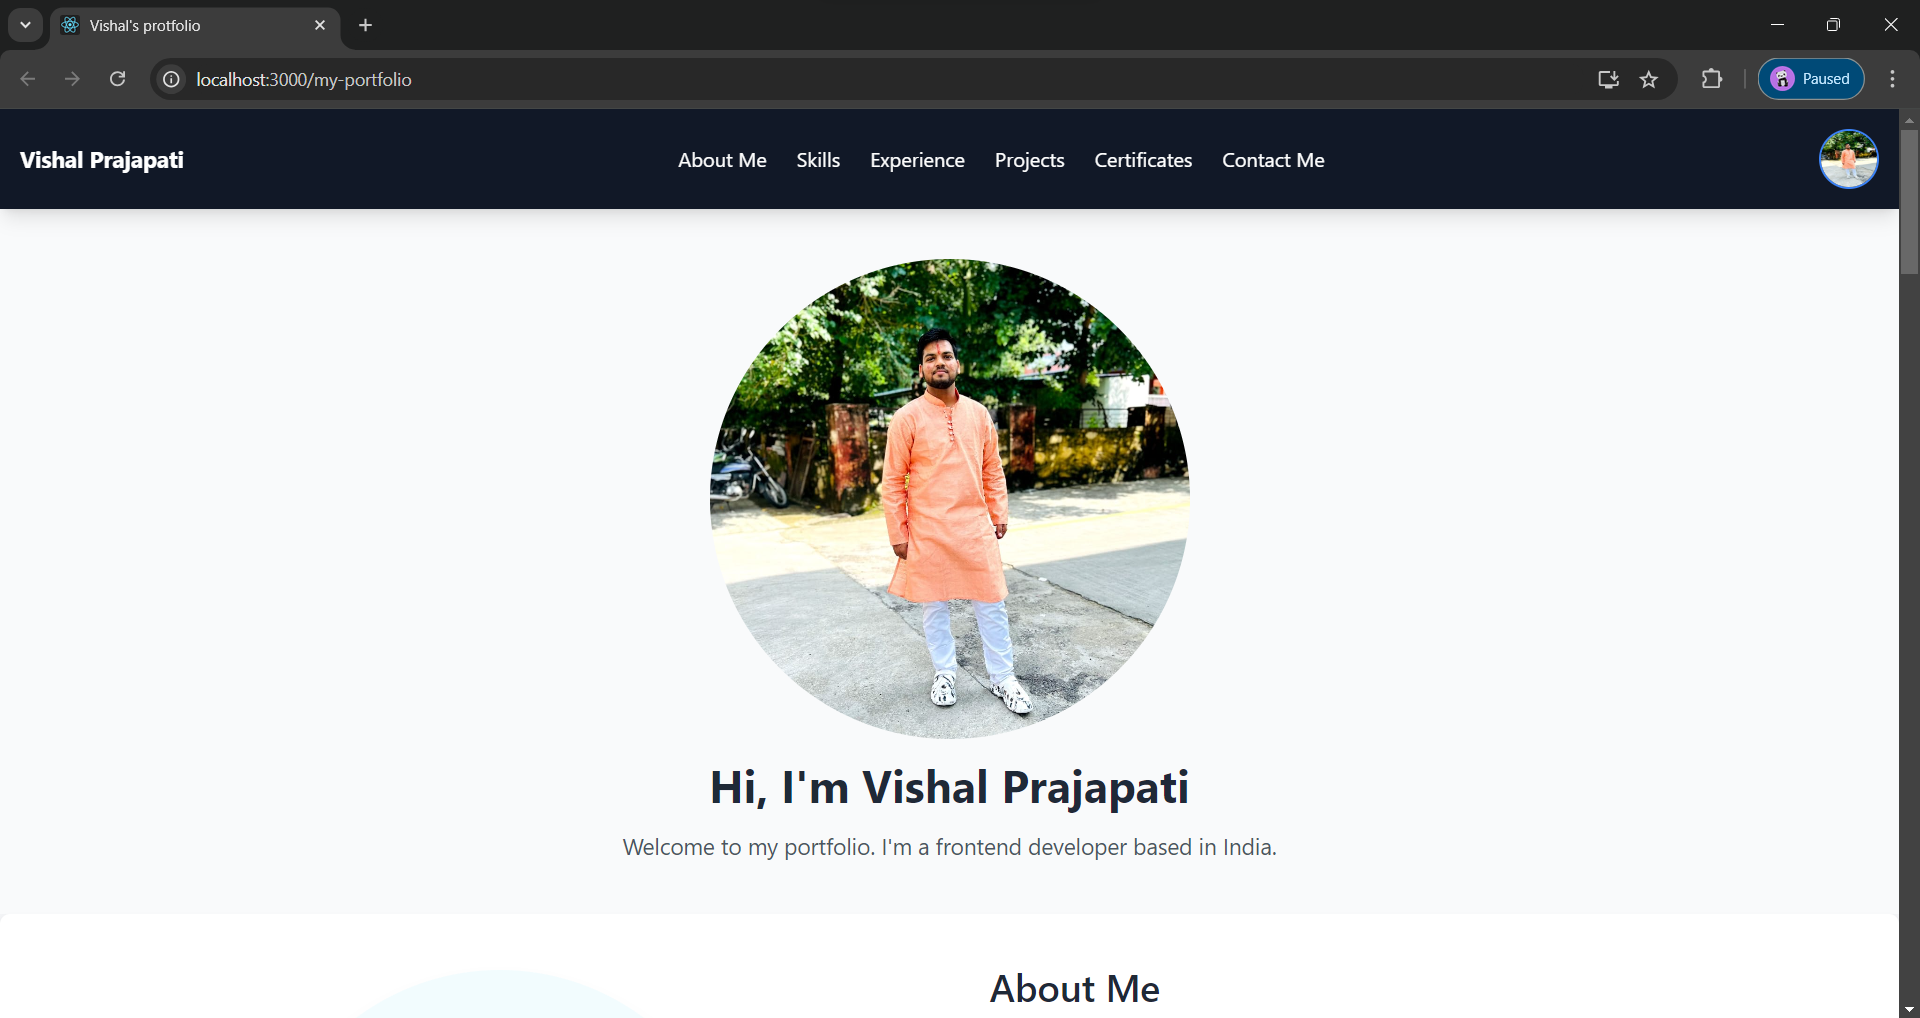
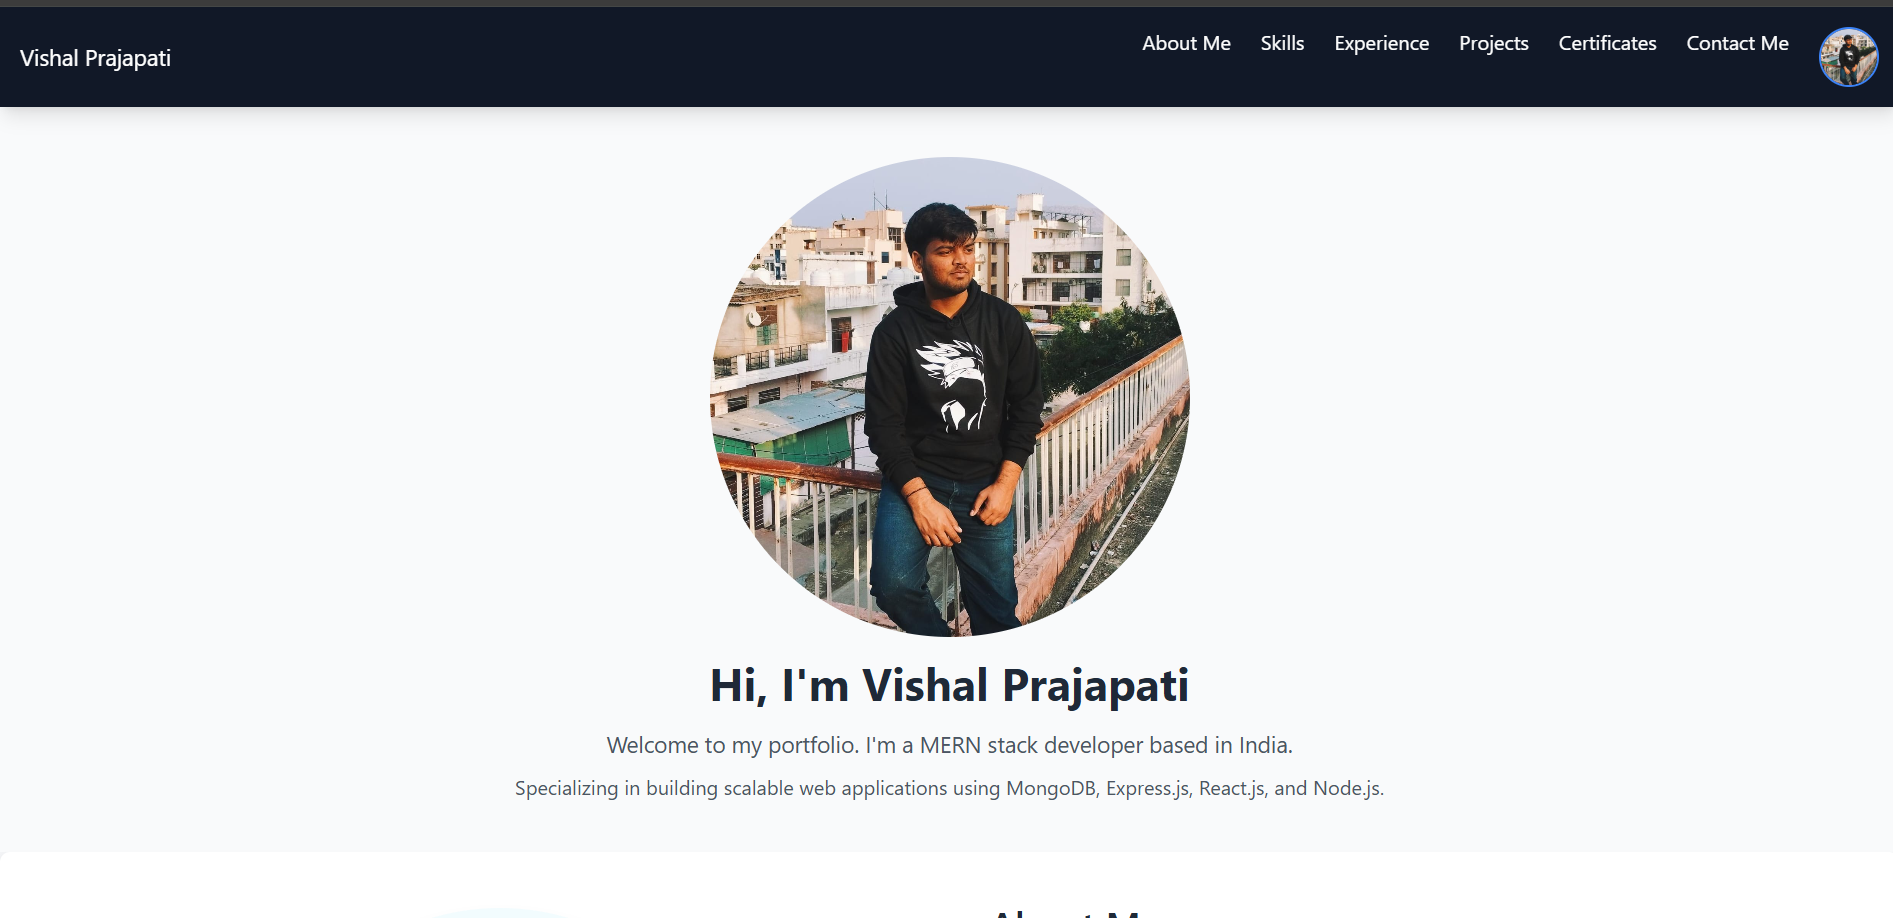
project updates

Changed region(s): [[0.0, 0.0, 1.0, 1.0], [0.4987, 0.9455, 0.6233, 1.0]]

diff --git a/src/Projects.js b/src/Projects.js
@@ -2,22 +2,25 @@
 
 import React, { useState } from 'react';
 
-import Joker from "./Projects/Joker.png";
-import Lottery from "./Projects/Lottery.png";
+import Cricketgems from "./Projects/Cricketgems.png";
+import Realestate from "./Projects/Realestate.png";
+import Parikramapaths from "./Projects/Parikramapaths.png";
 import Portfolio from "./Projects/Portfolio.png";
 import ToDOList from "./Projects/ToDOList.png";
 import Weather from "./Projects/Weather.png";
 
 const projects = [
+  
   {
-    title: "Weather App",
-    description: "A React Weather App fetches real-time weather data via APIs, displaying conditions and forecasts with a responsive design.",
-    imageUrl: Weather,
+    title: "Real-estate",
+    description: "Designed and developed a modern real estate web application focused on seamless property browsing, intuitive navigation, and responsive design.",
+    imageUrl: Realestate,
   },
+  
   {
-    title: "ToDO List",
-    description: "A ToDoList in React manages tasks using useState for adding, removing, and marking items. Tasks are rendered dynamically with forms or buttons for interaction.",
-    imageUrl: ToDOList,
+    title: "Parikrama-paths",
+    description: "Parikrama Paths simplifies your spiritual journeys with detailed insights and guidance. Discover divine trails and traditions effortlessly with us!",
+    imageUrl: Parikramapaths,
   },
   {
     title: "My-Portfolio",
@@ -25,19 +28,19 @@ const projects = [
     imageUrl: Portfolio,
   },
   {
-    title: "Lottery-Game",
-    description: "A lottery game in React using useState for random number generation and user input to check for matches. Display results dynamically based on the draw.",
-    imageUrl: Lottery,
+    title: "Cricket-gems",
+    description: "Cricket Gems brings the excitement of cricket to life with key insights and highlights. Explore the essence of the game like never before!",
+    imageUrl: Cricketgems,
   },
   {
-    title: "Joker-App",
-    description: "Joker-App in React uses an API to fetch random jokes and display them on the screen. The app updates with a new joke on user interaction, keeping the UI simple and engaging.",
-    imageUrl: Joker,
+    title: "Weather App",
+    description: "A React Weather App fetches real-time weather data via APIs, displaying conditions and forecasts with a responsive design.",
+    imageUrl: Weather,
   },
   {
-    title: "Project Title 6",
-    description: "Brief description of your project. You can also add a link to the project.",
-    imageUrl: "https://via.placeholder.com/400x300",
+    title: "ToDO List",
+    description: "A ToDoList in React manages tasks using useState for adding, removing, and marking items.",
+    imageUrl: ToDOList,
   },
   // Add more projects as needed
 ];
@@ -56,7 +59,7 @@ const Projects = () => {
   return (
     <section id="projects" className="p-10 bg-white shadow-md rounded-lg mb-10">
       <h2 className="text-3xl font-semibold text-center mb-8 text-gray-800">Projects</h2>
-      <div className="grid grid-cols-1 sm:grid-cols-2 md:grid-cols-3 lg:grid-cols-4 gap-8">
+      <div className="grid grid-cols-1 sm:grid-cols-2 md:grid-cols-3 lg:grid-cols-4 gap-8 ">
         {projects.map((project, index) => (
           <div
             key={index}

diff --git a/src/Certificates.js b/src/Certificates.js
@@ -8,6 +8,8 @@ import DsaCertificate from "./Certificate/DsaCertificate.jpeg";
 import HtmlCertificate from "./Certificate/HtmlCertificate.png";
 import MongoDbCertificate from "./Certificate/MongoDbCertificate.png";
 import PythonCertificate from "./Certificate/PythonCertificate.png";
+import LinuxCertificate from "./Certificate/LinuxCertificate.png";
+
 
 const certificates = [
   {
@@ -45,6 +47,11 @@ const certificates = [
     description: "Successfully completed an internship program where they acquired practical skills in Python programming, including developing and debugging Python applications.",
     imageUrl: PythonCertificate,
   },
+  {
+    title: "Linux",
+    description: "Successfully completed the Linux certification. This certification highlights expertise in Linux standards and best practices.",
+    imageUrl: LinuxCertificate,
+  },
   // Add more certificates as needed
 ];
 
@@ -62,7 +69,7 @@ const Certificates = () => {
   return (
     <section id="certificates" className="p-10 bg-white shadow-md rounded-lg mb-10">
       <h2 className="text-3xl font-semibold text-center mb-8 text-gray-800">Certificates</h2>
-      <div className="grid grid-cols-1 sm:grid-cols-2 md:grid-cols-3 lg:grid-cols-4 gap-8">
+      <div className="grid grid-cols-1 sm:grid-cols-2 md:grid-cols-3 lg:grid-cols-4 gap-8 ">
         {certificates.map((certificate, index) => (
           <div
             key={index}

diff --git a/src/Skills.js b/src/Skills.js
@@ -1,7 +1,9 @@
 import React from 'react';
 import { FaReact, FaNodeJs, FaCss3Alt, FaHtml5, FaJsSquare, FaGitAlt, FaGithub, FaFigma } from 'react-icons/fa';
-import { FaUniversalAccess } from 'react-icons/fa6';
+import { FaSquareLastfm, FaUniversalAccess } from 'react-icons/fa6';
 import { SiTailwindcss, SiMongodb, SiExpress } from 'react-icons/si';
+import { SiMysql } from 'react-icons/si';
+
 
 const Skills = () => {
   return (
@@ -29,7 +31,7 @@ const Skills = () => {
           <SiTailwindcss className="text-blue-500 text-4xl mb-4" />
           <h3 className="text-xl font-semibold text-gray-800">Tailwind CSS</h3>
         </div>
-        
+
         <div className="flex flex-col items-center text-center p-4 bg-gray-50 rounded-lg shadow-md">
           <SiExpress className="text-gray-800 text-4xl mb-4" />
           <h3 className="text-xl font-semibold text-gray-800">Express.js</h3>
@@ -54,7 +56,10 @@ const Skills = () => {
           <FaFigma className="text-gray-800 text-4xl mb-4" />
           <h3 className="text-xl font-semibold text-gray-800">Figma</h3>
         </div>
-        
+        <div className="flex flex-col items-center text-center p-4 bg-gray-50 rounded-lg shadow-md">
+          <SiMysql className="text-blue-600 text-4xl mb-4" />
+          <h3 className="text-xl font-semibold text-gray-800">MySQL</h3>
+        </div>
       </div>
     </section>
   );

diff --git a/src/Footer.js b/src/Footer.js
@@ -1,5 +1,5 @@
 import React from 'react';
-import { FaLinkedin, FaGithub, FaInstagram } from 'react-icons/fa';
+import { FaLinkedin, FaGithub, FaInstagram,  } from 'react-icons/fa';
 
 const Footer = () => {
   return (
@@ -15,7 +15,8 @@ const Footer = () => {
         <a href="https://www.instagram.com/vishal_20_03/" target="_blank" rel="noopener noreferrer" className="text-gray-400 hover:text-white transition-colors duration-300">
           <FaInstagram className="text-2xl" />
         </a>
-       
+        
+  
       </div>
       
     </footer>
